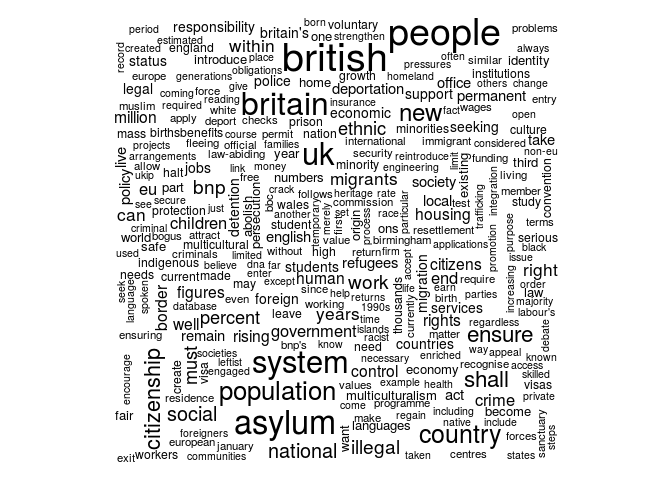
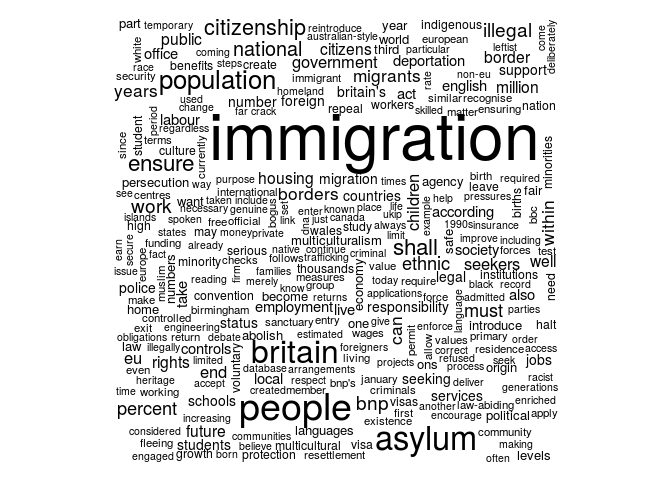
codecov badge

Changed region(s): [[0.1562, 0.0312, 0.8438, 0.9688]]

diff --git a/README.md b/README.md
@@ -1,5 +1,5 @@
 <!-- README.md is generated from README.Rmd. Please edit that file -->
-**Development version** [![Build Status](https://travis-ci.org/kbenoit/quanteda.svg?branch=dev)]
+**Development version** [![Build Status](https://travis-ci.org/kbenoit/quanteda.svg?branch=dev)][![codecov.io](http://codecov.io/github/kbenoit/quanteda.svg?branch=dev)](<http://codecov.io/github/kbenoit/quanteda.svg?branch=dev>)
 
 See the [Getting Started Vignette](http://htmlpreview.github.com/?https://github.com/kbenoit/quanteda/blob/master/vignettes/quickstart.html).
 
@@ -104,7 +104,7 @@ summary(uk2010immigCorpus, showmeta=TRUE)
 #>          UKIP   311    633        38         UKIP
 #> 
 #> Source:  /home/paul/Dropbox/quanteda/* on x86_64 by paul.
-#> Created: Fri Jul 31 16:51:40 2015.
+#> Created: Fri Jul 31 17:05:19 2015.
 #> Notes:   Immigration-related sections of 2010 UK party manifestos.
 
 # key words in context for "deport", 3 words of context
@@ -150,7 +150,7 @@ mydfm <- dfm(uk2010immigCorpus, ignoredFeatures=c("will", stopwords("english")))
 #>    ... removed 97 features, from 175 supplied feature types
 #>    ... created a 9 x 1489 sparse dfm
 #>    ... complete. 
-#> Elapsed time: 0.065 seconds.
+#> Elapsed time: 0.066 seconds.
 dim(mydfm)              # basic dimensions of the dfm
 #> [1]    9 1489
 topfeatures(mydfm, 20)  # 20 top words
@@ -164,102 +164,114 @@ topfeatures(mydfm, 20)  # 20 top words
 #>          13          12
 if (Sys.info()['sysname']=="Darwin") quartz() # open nicer window, Mac only
 plot(mydfm)             # word cloud     
-#> Warning in wordcloud::wordcloud(features(x), colSums(x), ...): immigration
-#> could not be fit on page. It will not be plotted.
-#> Warning in wordcloud::wordcloud(features(x), colSums(x), ...): seekers
-#> could not be fit on page. It will not be plotted.
-#> Warning in wordcloud::wordcloud(features(x), colSums(x), ...): employment
-#> could not be fit on page. It will not be plotted.
-#> Warning in wordcloud::wordcloud(features(x), colSums(x), ...): controls
-#> could not be fit on page. It will not be plotted.
-#> Warning in wordcloud::wordcloud(features(x), colSums(x), ...): number could
-#> not be fit on page. It will not be plotted.
-#> Warning in wordcloud::wordcloud(features(x), colSums(x), ...): agency could
-#> not be fit on page. It will not be plotted.
-#> Warning in wordcloud::wordcloud(features(x), colSums(x), ...): times could
-#> not be fit on page. It will not be plotted.
-#> Warning in wordcloud::wordcloud(features(x), colSums(x), ...): measures
-#> could not be fit on page. It will not be plotted.
-#> Warning in wordcloud::wordcloud(features(x), colSums(x), ...): schools
-#> could not be fit on page. It will not be plotted.
-#> Warning in wordcloud::wordcloud(features(x), colSums(x), ...): according
-#> could not be fit on page. It will not be plotted.
-#> Warning in wordcloud::wordcloud(features(x), colSums(x), ...): illegally
-#> could not be fit on page. It will not be plotted.
-#> Warning in wordcloud::wordcloud(features(x), colSums(x), ...): future could
-#> not be fit on page. It will not be plotted.
 #> Warning in wordcloud::wordcloud(features(x), colSums(x), ...): immigrants
 #> could not be fit on page. It will not be plotted.
-#> Warning in wordcloud::wordcloud(features(x), colSums(x), ...): statistics
+#> Warning in wordcloud::wordcloud(features(x), colSums(x), ...): country
 #> could not be fit on page. It will not be plotted.
-#> Warning in wordcloud::wordcloud(features(x), colSums(x), ...): review could
-#> not be fit on page. It will not be plotted.
-#> Warning in wordcloud::wordcloud(features(x), colSums(x), ...): admitted
-#> could not be fit on page. It will not be plotted.
-#> Warning in wordcloud::wordcloud(features(x), colSums(x), ...): controlled
-#> could not be fit on page. It will not be plotted.
-#> Warning in wordcloud::wordcloud(features(x), colSums(x), ...): australian-
-#> style could not be fit on page. It will not be plotted.
-#> Warning in wordcloud::wordcloud(features(x), colSums(x), ...): policies
-#> could not be fit on page. It will not be plotted.
-#> Warning in wordcloud::wordcloud(features(x), colSums(x), ...): genuine
-#> could not be fit on page. It will not be plotted.
-#> Warning in wordcloud::wordcloud(features(x), colSums(x), ...): community
-#> could not be fit on page. It will not be plotted.
-#> Warning in wordcloud::wordcloud(features(x), colSums(x), ...): many could
-#> not be fit on page. It will not be plotted.
-#> Warning in wordcloud::wordcloud(features(x), colSums(x), ...): levels could
-#> not be fit on page. It will not be plotted.
-#> Warning in wordcloud::wordcloud(features(x), colSums(x), ...): points-based
-#> could not be fit on page. It will not be plotted.
-#> Warning in wordcloud::wordcloud(features(x), colSums(x), ...): improve
-#> could not be fit on page. It will not be plotted.
-#> Warning in wordcloud::wordcloud(features(x), colSums(x), ...): also could
-#> not be fit on page. It will not be plotted.
-#> Warning in wordcloud::wordcloud(features(x), colSums(x), ...): making could
-#> not be fit on page. It will not be plotted.
-#> Warning in wordcloud::wordcloud(features(x), colSums(x), ...): refused
-#> could not be fit on page. It will not be plotted.
-#> Warning in wordcloud::wordcloud(features(x), colSums(x), ...): correct
-#> could not be fit on page. It will not be plotted.
-#> Warning in wordcloud::wordcloud(features(x), colSums(x), ...): repeal could
+#> Warning in wordcloud::wordcloud(features(x), colSums(x), ...): social could
 #> not be fit on page. It will not be plotted.
 #> Warning in wordcloud::wordcloud(features(x), colSums(x), ...): long-term
 #> could not be fit on page. It will not be plotted.
-#> Warning in wordcloud::wordcloud(features(x), colSums(x), ...): deliberately
-#> could not be fit on page. It will not be plotted.
-#> Warning in wordcloud::wordcloud(features(x), colSums(x), ...): deliver
-#> could not be fit on page. It will not be plotted.
-#> Warning in wordcloud::wordcloud(features(x), colSums(x), ...): canada could
+#> Warning in wordcloud::wordcloud(features(x), colSums(x), ...): system could
 #> not be fit on page. It will not be plotted.
-#> Warning in wordcloud::wordcloud(features(x), colSums(x), ...): britons
+#> Warning in wordcloud::wordcloud(features(x), colSums(x), ...): england
 #> could not be fit on page. It will not be plotted.
-#> Warning in wordcloud::wordcloud(features(x), colSums(x), ...): public could
-#> not be fit on page. It will not be plotted.
-#> Warning in wordcloud::wordcloud(features(x), colSums(x), ...): enforce
+#> Warning in wordcloud::wordcloud(features(x), colSums(x), ...): british
 #> could not be fit on page. It will not be plotted.
-#> Warning in wordcloud::wordcloud(features(x), colSums(x), ...): borders
+#> Warning in wordcloud::wordcloud(features(x), colSums(x), ...): statistics
 #> could not be fit on page. It will not be plotted.
-#> Warning in wordcloud::wordcloud(features(x), colSums(x), ...): today could
+#> Warning in wordcloud::wordcloud(features(x), colSums(x), ...): identity
+#> could not be fit on page. It will not be plotted.
+#> Warning in wordcloud::wordcloud(features(x), colSums(x), ...): deport could
 #> not be fit on page. It will not be plotted.
-#> Warning in wordcloud::wordcloud(features(x), colSums(x), ...): labour could
+#> Warning in wordcloud::wordcloud(features(x), colSums(x), ...): uk could not
+#> be fit on page. It will not be plotted.
+#> Warning in wordcloud::wordcloud(features(x), colSums(x), ...): prison could
 #> not be fit on page. It will not be plotted.
+#> Warning in wordcloud::wordcloud(features(x), colSums(x), ...): commission
+#> could not be fit on page. It will not be plotted.
+#> Warning in wordcloud::wordcloud(features(x), colSums(x), ...): points-based
+#> could not be fit on page. It will not be plotted.
+#> Warning in wordcloud::wordcloud(features(x), colSums(x), ...): regain could
+#> not be fit on page. It will not be plotted.
+#> Warning in wordcloud::wordcloud(features(x), colSums(x), ...): needs could
+#> not be fit on page. It will not be plotted.
+#> Warning in wordcloud::wordcloud(features(x), colSums(x), ...): remain could
+#> not be fit on page. It will not be plotted.
+#> Warning in wordcloud::wordcloud(features(x), colSums(x), ...): others could
+#> not be fit on page. It will not be plotted.
+#> Warning in wordcloud::wordcloud(features(x), colSums(x), ...): crime could
+#> not be fit on page. It will not be plotted.
+#> Warning in wordcloud::wordcloud(features(x), colSums(x), ...): except could
+#> not be fit on page. It will not be plotted.
+#> Warning in wordcloud::wordcloud(features(x), colSums(x), ...): detention
+#> could not be fit on page. It will not be plotted.
 #> Warning in wordcloud::wordcloud(features(x), colSums(x), ...): priority
 #> could not be fit on page. It will not be plotted.
-#> Warning in wordcloud::wordcloud(features(x), colSums(x), ...): primary
-#> could not be fit on page. It will not be plotted.
-#> Warning in wordcloud::wordcloud(features(x), colSums(x), ...): group could
+#> Warning in wordcloud::wordcloud(features(x), colSums(x), ...): new could
 #> not be fit on page. It will not be plotted.
-#> Warning in wordcloud::wordcloud(features(x), colSums(x), ...): respect
+#> Warning in wordcloud::wordcloud(features(x), colSums(x), ...): rising could
+#> not be fit on page. It will not be plotted.
+#> Warning in wordcloud::wordcloud(features(x), colSums(x), ...): without
 #> could not be fit on page. It will not be plotted.
-#> Warning in wordcloud::wordcloud(features(x), colSums(x), ...): existence
+#> Warning in wordcloud::wordcloud(features(x), colSums(x), ...): majority
 #> could not be fit on page. It will not be plotted.
-#> Warning in wordcloud::wordcloud(features(x), colSums(x), ...): continue
+#> Warning in wordcloud::wordcloud(features(x), colSums(x), ...): mass could
+#> not be fit on page. It will not be plotted.
+#> Warning in wordcloud::wordcloud(features(x), colSums(x), ...): strengthen
 #> could not be fit on page. It will not be plotted.
-#> Warning in wordcloud::wordcloud(features(x), colSums(x), ...): already
+#> Warning in wordcloud::wordcloud(features(x), colSums(x), ...): policy could
+#> not be fit on page. It will not be plotted.
+#> Warning in wordcloud::wordcloud(features(x), colSums(x), ...): labour's
 #> could not be fit on page. It will not be plotted.
-#> Warning in wordcloud::wordcloud(features(x), colSums(x), ...): political
+#> Warning in wordcloud::wordcloud(features(x), colSums(x), ...): human could
+#> not be fit on page. It will not be plotted.
+#> Warning in wordcloud::wordcloud(features(x), colSums(x), ...): permanent
 #> could not be fit on page. It will not be plotted.
+#> Warning in wordcloud::wordcloud(features(x), colSums(x), ...): right could
+#> not be fit on page. It will not be plotted.
+#> Warning in wordcloud::wordcloud(features(x), colSums(x), ...): figures
+#> could not be fit on page. It will not be plotted.
+#> Warning in wordcloud::wordcloud(features(x), colSums(x), ...): refugees
+#> could not be fit on page. It will not be plotted.
+#> Warning in wordcloud::wordcloud(features(x), colSums(x), ...): attract
+#> could not be fit on page. It will not be plotted.
+#> Warning in wordcloud::wordcloud(features(x), colSums(x), ...): existing
+#> could not be fit on page. It will not be plotted.
+#> Warning in wordcloud::wordcloud(features(x), colSums(x), ...): control
+#> could not be fit on page. It will not be plotted.
+#> Warning in wordcloud::wordcloud(features(x), colSums(x), ...): programme
+#> could not be fit on page. It will not be plotted.
+#> Warning in wordcloud::wordcloud(features(x), colSums(x), ...): health could
+#> not be fit on page. It will not be plotted.
+#> Warning in wordcloud::wordcloud(features(x), colSums(x), ...): policies
+#> could not be fit on page. It will not be plotted.
+#> Warning in wordcloud::wordcloud(features(x), colSums(x), ...): problems
+#> could not be fit on page. It will not be plotted.
+#> Warning in wordcloud::wordcloud(features(x), colSums(x), ...): britons
+#> could not be fit on page. It will not be plotted.
+#> Warning in wordcloud::wordcloud(features(x), colSums(x), ...): economic
+#> could not be fit on page. It will not be plotted.
+#> Warning in wordcloud::wordcloud(features(x), colSums(x), ...): promotion
+#> could not be fit on page. It will not be plotted.
+#> Warning in wordcloud::wordcloud(features(x), colSums(x), ...): societies
+#> could not be fit on page. It will not be plotted.
+#> Warning in wordcloud::wordcloud(features(x), colSums(x), ...): integration
+#> could not be fit on page. It will not be plotted.
+#> Warning in wordcloud::wordcloud(features(x), colSums(x), ...): review could
+#> not be fit on page. It will not be plotted.
+#> Warning in wordcloud::wordcloud(features(x), colSums(x), ...): appeal could
+#> not be fit on page. It will not be plotted.
+#> Warning in wordcloud::wordcloud(features(x), colSums(x), ...): made could
+#> not be fit on page. It will not be plotted.
+#> Warning in wordcloud::wordcloud(features(x), colSums(x), ...): current
+#> could not be fit on page. It will not be plotted.
+#> Warning in wordcloud::wordcloud(features(x), colSums(x), ...): course could
+#> not be fit on page. It will not be plotted.
+#> Warning in wordcloud::wordcloud(features(x), colSums(x), ...): many could
+#> not be fit on page. It will not be plotted.
+#> Warning in wordcloud::wordcloud(features(x), colSums(x), ...): open could
+#> not be fit on page. It will not be plotted.
 ```
 
 ![](README-quanteda_example-1.png)
